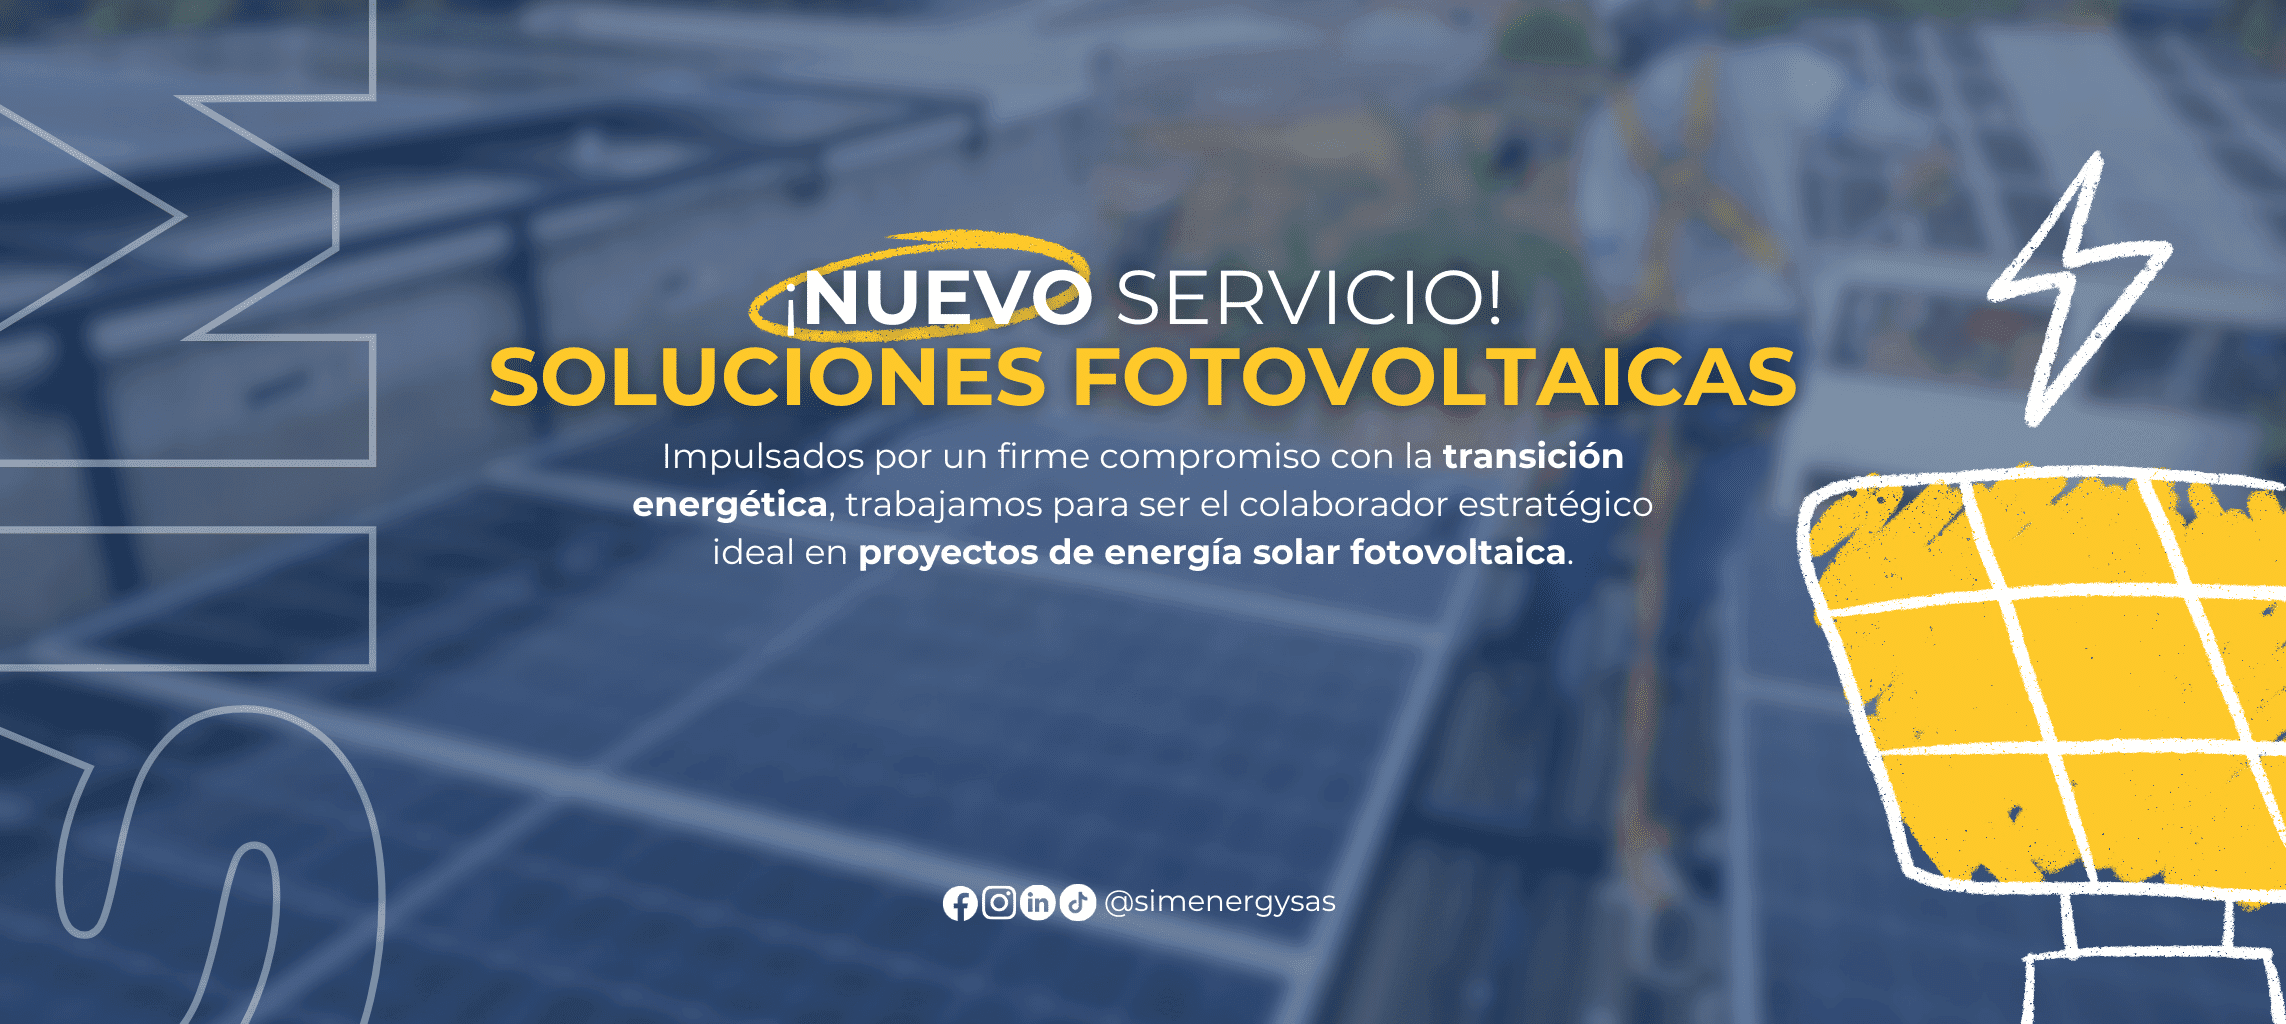
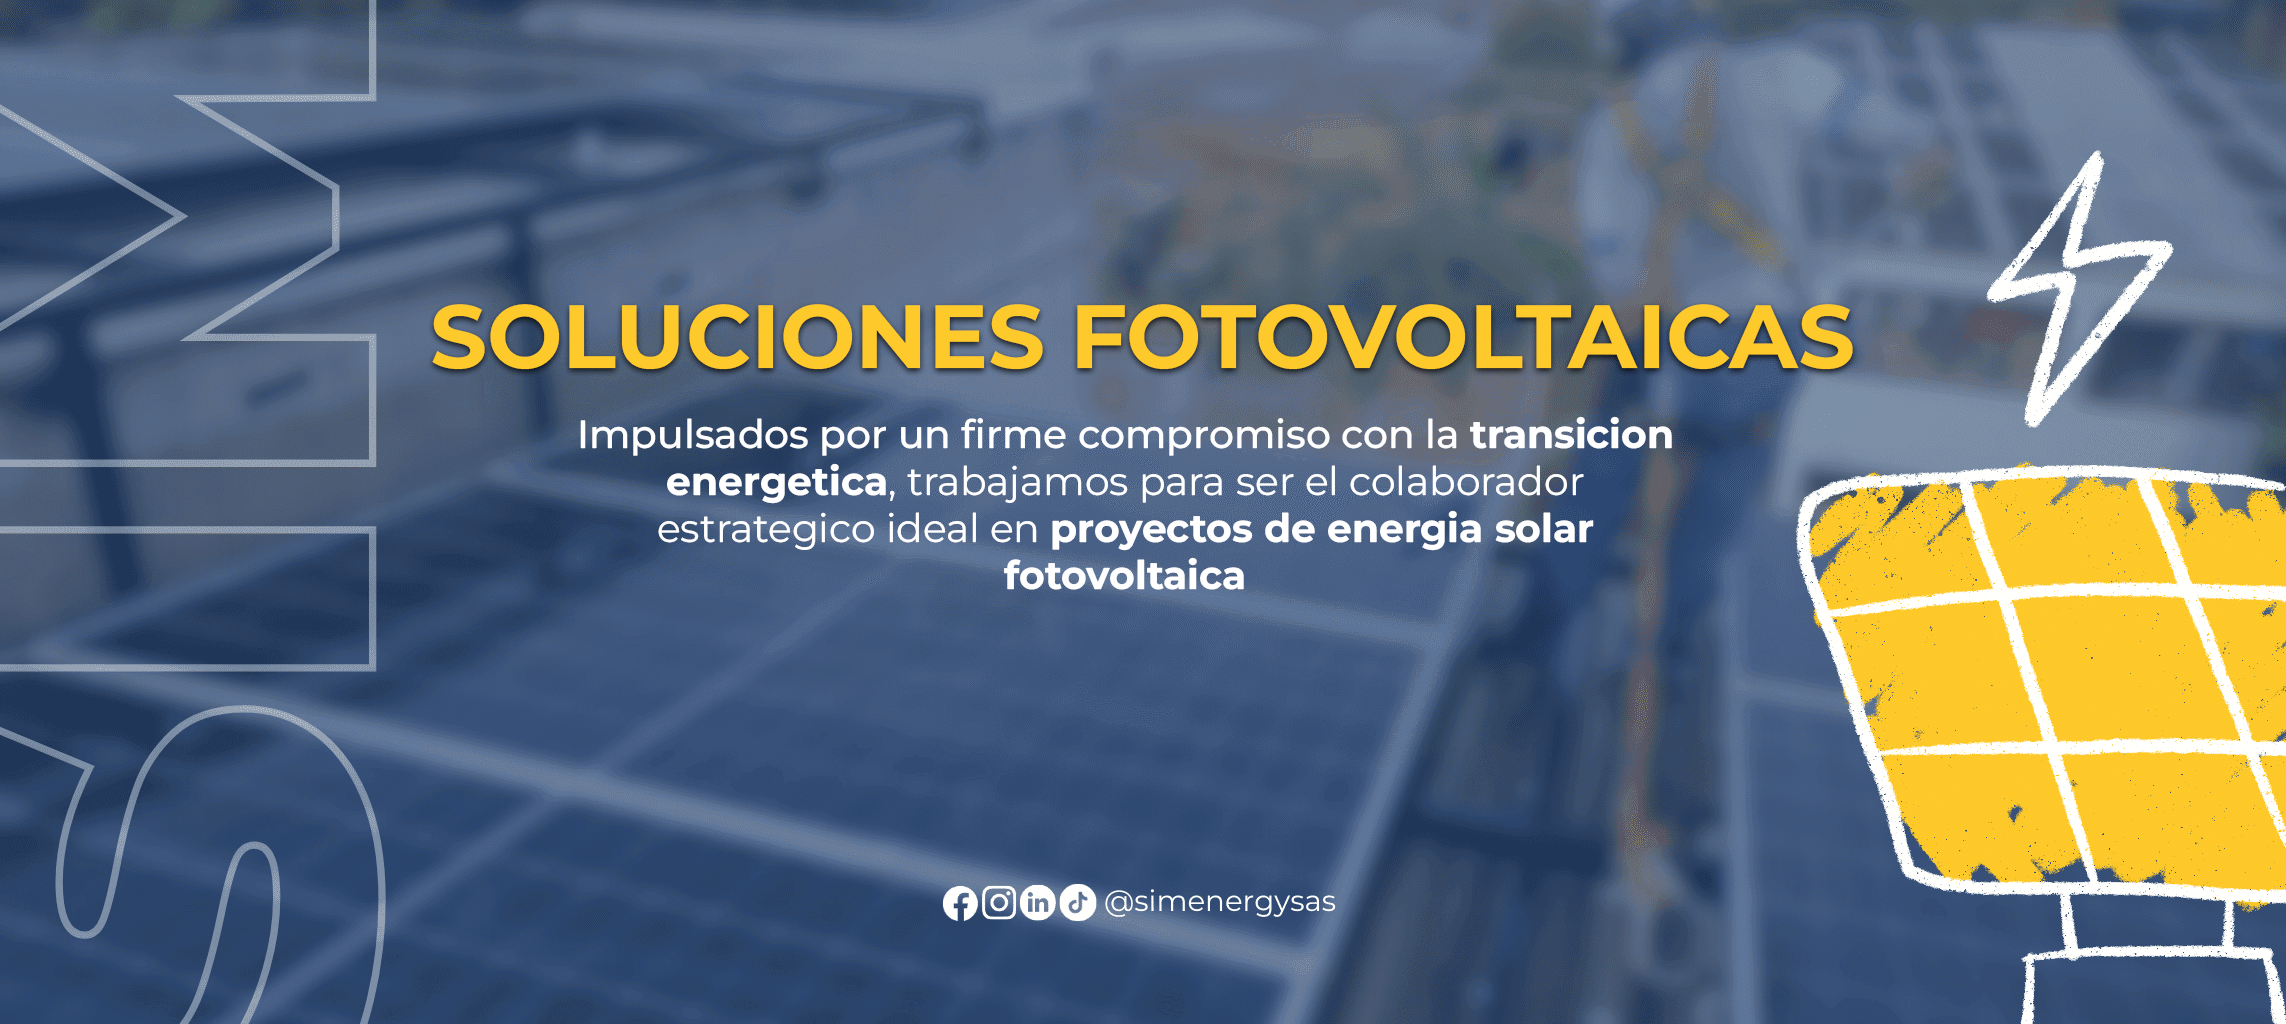
feat: actualizar imagen Slide 2 de 'Nuevo Servicio Soluciones Fotovoltaicas' a 'Soluciones Fotovoltaicas' y actualizar bitacora

Changed region(s): [[0.1864, 0.2188, 0.8075, 0.5938]]

diff --git a/docs/BITACORA.md b/docs/BITACORA.md
@@ -179,6 +179,13 @@ web-.ve/
 
 ---
 
+## Sesión 8 — 2026-05-27
+
+### 15. Cambio de imagen en Slide 2 de Soluciones Fotovoltaicas
+- **Actualización de imagen:** Se reemplazó la imagen `Presentes768.png` (Slide 2 del banner principal) de "Nuevo Servicio Soluciones Fotovoltaicas" por una versión actualizada que muestra únicamente "Soluciones Fotovoltaicas", eliminando la referencia a "Nuevo Servicio".
+
+---
+
 ## Cómo actualizar el sitio (para el amigo)
 
 ### Si el .co cambió y querés bajar los cambios nuevos:
